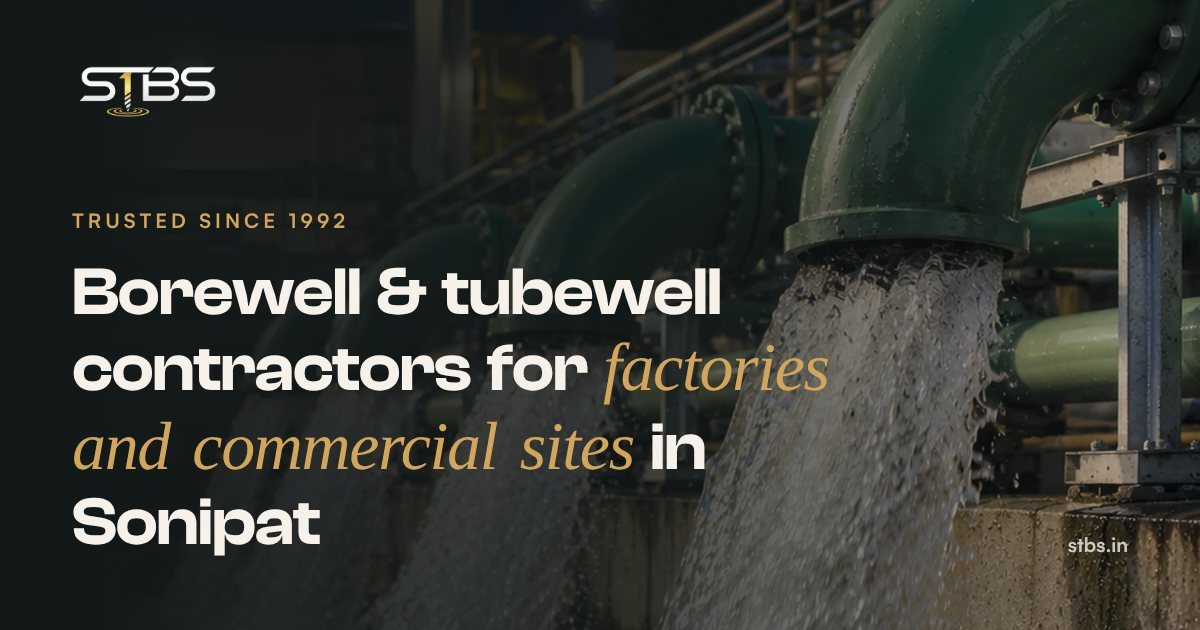
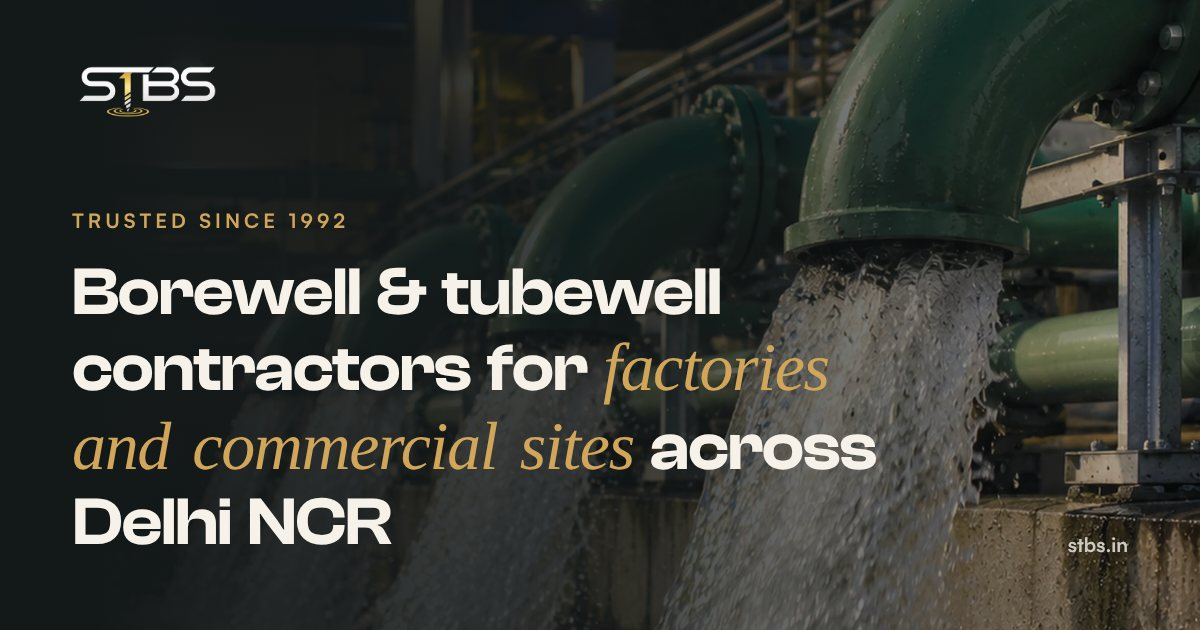
Homepage headline: say Delhi NCR, keep Sonipat as the base
The business works across Delhi NCR, so "in Sonipat" in the H1 could
turn away sites elsewhere. The subline names the Bahalgarh, Sonipat
base instead; the page title still carries Sonipat for local search.

Claude-Session: https://claude.ai/code/session_01Q81GzMmFVmJNoywGpnVXUb

Changed region(s): [[0.0617, 0.7841, 0.3392, 0.8746], [0.5242, 0.6635, 0.74, 0.754]]

diff --git a/lib/website/home-defaults.ts b/lib/website/home-defaults.ts
@@ -11,9 +11,9 @@ export const HOME_HERO = {
   style: "intro",
   introTagline: "GO DEEPER BUILD STRONGER",
   eyebrow: "Trusted since 1992",
-  heading: "Borewell & tubewell contractors for *factories and commercial sites* in Sonipat",
+  heading: "Borewell & tubewell contractors for *factories and commercial sites* across Delhi NCR",
   headingLine2: "",
-  supportingText: "We test the ground, drill the borewell and build the tubewell with one team, across Haryana and NCR.",
+  supportingText: "From our base in Bahalgarh, Sonipat, we test the ground, drill the borewell and build the tubewell with one team.",
   primaryCtaText: "Book a site visit",
   primaryCtaUrl: "/quote",
   // No company profile PDF exists yet (owner, 2026-09-19), so there is no secondary button.
